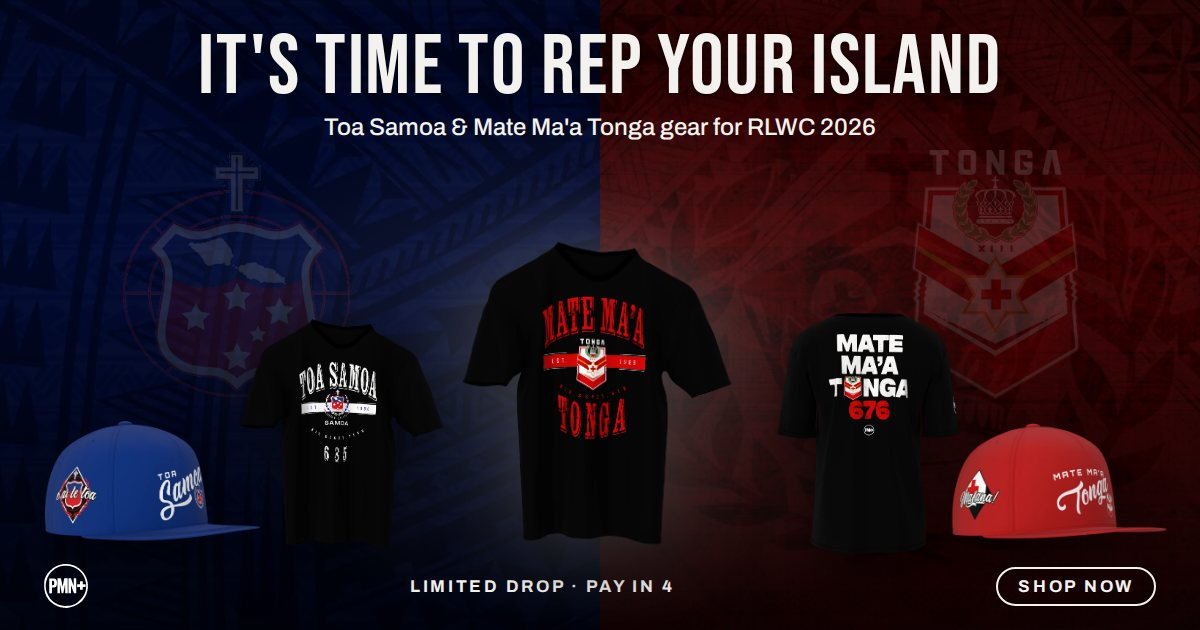
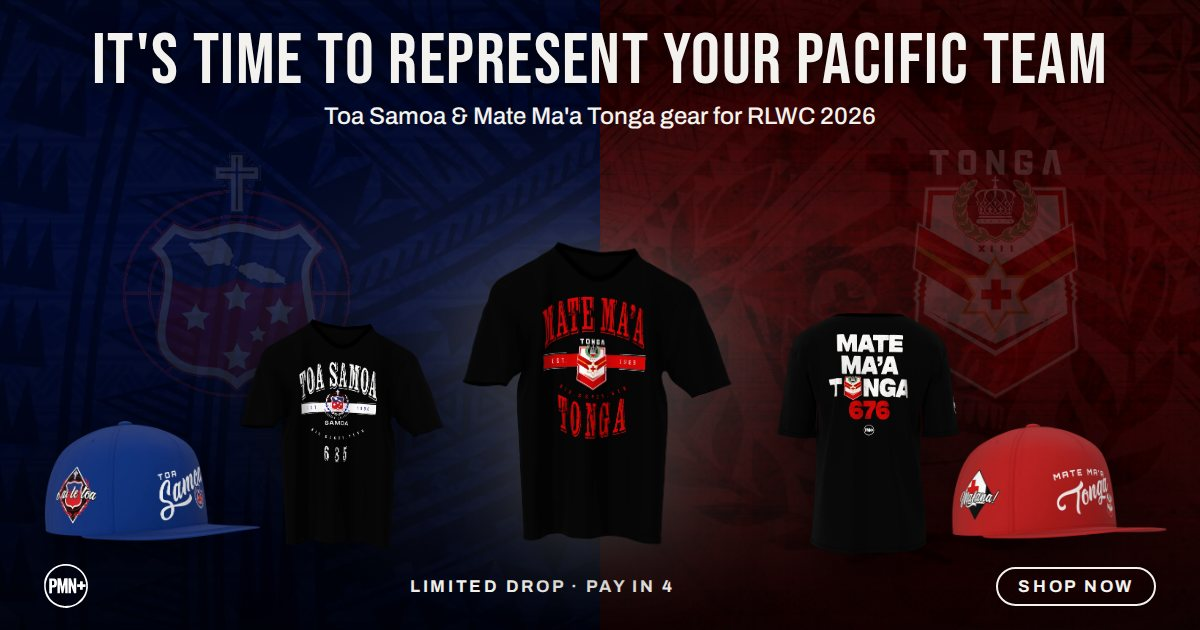
Site title, SEO, OG previews, Pacific team headline

Changed region(s): [[0.0617, 0.0302, 0.925, 0.2413]]

diff --git a/shop/index.html b/shop/index.html
@@ -12,25 +12,25 @@
 <link rel="preconnect" href="https://fonts.googleapis.com">
 <link rel="preconnect" href="https://fonts.gstatic.com" crossorigin>
 <link rel="stylesheet" href="https://fonts.googleapis.com/css2?family=Bebas+Neue&family=Archivo:wght@400;500;600;700&display=swap">
-<meta name="description" content="It&#39;s time to rep your island. Toa Samoa and Mate Ma&#39;a Tonga tees, snapbacks and truckers for RLWC 2026, plus PMN+ core pieces. Pay in 4 with Afterpay.">
+<meta name="description" content="It&#39;s time to represent your Pacific team. Toa Samoa and Mate Ma&#39;a Tonga tees, snapbacks and truckers for RLWC 2026, plus PMN+ core pieces. Pay in 4 with Afterpay.">
 <link rel="canonical" href="https://www.polynesianmusicnetwork.com/shop">
 <meta property="og:site_name" content="PMN+">
 <meta property="og:locale" content="en_US">
 <meta property="og:type" content="website">
 <meta property="og:title" content="Shop PMN+ | RLWC 2026 Toa Samoa &amp; Mate Ma'a Tonga Merch">
-<meta property="og:description" content="It's time to rep your island. Toa Samoa and Mate Ma'a Tonga tees, snapbacks and truckers for RLWC 2026, plus PMN+ core pieces. Pay in 4 with Afterpay.">
+<meta property="og:description" content="It's time to represent your Pacific team. Toa Samoa and Mate Ma'a Tonga tees, snapbacks and truckers for RLWC 2026, plus PMN+ core pieces. Pay in 4 with Afterpay.">
 <meta property="og:url" content="https://www.polynesianmusicnetwork.com/shop">
 <meta property="og:image" content="https://www.polynesianmusicnetwork.com/shop/pmn-plus-shop-og-rlwc-2026-toa-samoa-mate-maa-tonga.jpg">
 <meta property="og:image:secure_url" content="https://www.polynesianmusicnetwork.com/shop/pmn-plus-shop-og-rlwc-2026-toa-samoa-mate-maa-tonga.jpg">
 <meta property="og:image:type" content="image/jpeg">
 <meta property="og:image:width" content="1200">
 <meta property="og:image:height" content="630">
-<meta property="og:image:alt" content="Toa Samoa and Mate Ma'a Tonga tees and snapbacks on blue and red pattern backgrounds: It's time to rep your island">
+<meta property="og:image:alt" content="Toa Samoa and Mate Ma'a Tonga tees and snapbacks on blue and red pattern backgrounds: It's time to represent your Pacific team">
 <meta name="twitter:card" content="summary_large_image">
 <meta name="twitter:title" content="Shop PMN+ | RLWC 2026 Toa Samoa &amp; Mate Ma'a Tonga Merch">
-<meta name="twitter:description" content="It's time to rep your island. Toa Samoa and Mate Ma'a Tonga tees, snapbacks and truckers for RLWC 2026, plus PMN+ core pieces. Pay in 4 with Afterpay.">
+<meta name="twitter:description" content="It's time to represent your Pacific team. Toa Samoa and Mate Ma'a Tonga tees, snapbacks and truckers for RLWC 2026, plus PMN+ core pieces. Pay in 4 with Afterpay.">
 <meta name="twitter:image" content="https://www.polynesianmusicnetwork.com/shop/pmn-plus-shop-og-rlwc-2026-toa-samoa-mate-maa-tonga.jpg">
-<meta name="twitter:image:alt" content="Toa Samoa and Mate Ma'a Tonga tees and snapbacks on blue and red pattern backgrounds: It's time to rep your island">
+<meta name="twitter:image:alt" content="Toa Samoa and Mate Ma'a Tonga tees and snapbacks on blue and red pattern backgrounds: It's time to represent your Pacific team">
 
 <script type="application/ld+json">{"@context":"https://schema.org","@graph":[{"@type":"Organization","@id":"https://polynesianmusicnetwork.com/#org","name":"PMN+","alternateName":"Polynesian Music Network Plus","url":"https://polynesianmusicnetwork.com","logo":"https://polynesianmusicnetwork.com/brand/pmn-plus-logo-black.png","legalName":"Polynesian Music"},{"@type":"Product","@id":"https://polynesianmusicnetwork.com/shop/mate-maa-tonga-crest-oversized-tee-black#product","name":"Mate Ma'a Tonga Crest Oversized Tee – Black","sku":"mate-maa-tonga-crest-oversized-tee-black","brand":{"@type":"Brand","name":"PMN+"},"color":"Black","category":"Apparel & Accessories > Clothing > Shirts & Tops","image":["https://polynesianmusicnetwork.com/hires/mmt-oversized/mate-maa-tonga-crest-oversized-tee-black-front.webp","https://polynesianmusicnetwork.com/hires/mmt-oversized/mate-maa-tonga-crest-oversized-tee-black-back.webp"],"description":"A heavyweight oversized tee for Mate Ma'a Tonga fans. The front carries the Mate Ma'a Tonga Est. 1986 crest print in red and white; a PMN+ tapa band runs across the upper back. Cut from 7.5 oz 100% USA cotton with a relaxed body and dropped shoulder, it holds its shape wash after wash. Made for Rugby League World Cup 2026 and every Tonga game after it.","url":"https://polynesianmusicnetwork.com/shop/mate-maa-tonga-crest-oversized-tee-black","audience":{"@type":"PeopleAudience","suggestedGender":"unisex"},"offers":{"@type":"Offer","url":"https://polynesianmusicnetwork.com/shop/mate-maa-tonga-crest-oversized-tee-black","price":"55.00","priceCurrency":"USD","availability":"https://schema.org/InStock","itemCondition":"https://schema.org/NewCondition","seller":{"@id":"https://polynesianmusicnetwork.com/#org"},"hasMerchantReturnPolicy":{"@type":"MerchantReturnPolicy","applicableCountry":"US","returnPolicyCategory":"https://schema.org/MerchantReturnFiniteReturnWindow","merchantReturnDays":30,"returnMethod":"https://schema.org/ReturnByMail","returnFees":"https://schema.org/ReturnFeesCustomerResponsibility"}}},{"@type":"Product","@id":"https://polynesianmusicnetwork.com/shop/toa-samoa-crest-oversized-tee-black#product","name":"Toa Samoa Crest Oversized Tee – Black","sku":"toa-samoa-crest-oversized-tee-black","brand":{"@type":"Brand","name":"PMN+"},"color":"Black","category":"Apparel & Accessories > Clothing > Shirts & Tops","image":["https://polynesianmusicnetwork.com/hires/toa-oversized/toa-samoa-crest-oversized-tee-black-front.webp","https://polynesianmusicnetwork.com/hires/toa-oversized/toa-samoa-crest-oversized-tee-black-back.webp"],"description":"A heavyweight oversized tee for Toa Samoa fans. The front carries the Toa Samoa Est. 1986 crest print; a PMN+ tapa band runs across the upper back. Cut from 7.5 oz 100% USA cotton with a relaxed body and dropped shoulder. Built for Rugby League World Cup 2026 and every Samoa game after it.","url":"https://polynesianmusicnetwork.com/shop/toa-samoa-crest-oversized-tee-black","audience":{"@type":"PeopleAudience","suggestedGender":"unisex"},"offers":{"@type":"Offer","url":"https://polynesianmusicnetwork.com/shop/toa-samoa-crest-oversized-tee-black","price":"55.00","priceCurrency":"USD","availability":"https://schema.org/InStock","itemCondition":"https://schema.org/NewCondition","seller":{"@id":"https://polynesianmusicnetwork.com/#org"},"hasMerchantReturnPolicy":{"@type":"MerchantReturnPolicy","applicableCountry":"US","returnPolicyCategory":"https://schema.org/MerchantReturnFiniteReturnWindow","merchantReturnDays":30,"returnMethod":"https://schema.org/ReturnByMail","returnFees":"https://schema.org/ReturnFeesCustomerResponsibility"}}},{"@type":"Product","@id":"https://polynesianmusicnetwork.com/shop/mate-maa-tonga-676-tee-black#product","name":"Mate Ma'a Tonga 676 Tee – Black","sku":"mate-maa-tonga-676-tee-black","brand":{"@type":"Brand","name":"PMN+"},"color":"Black","category":"Apparel & Accessories > Clothing > Shirts & Tops","image":["https://polynesianmusicnetwork.com/hires/mmt-676-black/mate-maa-tonga-676-tee-black-back.webp","https://polynesianmusicnetwork.com/hires/mmt-676-black/mate-maa-tonga-676-tee-black-front.webp","https://polynesianmusicnetwork.com/hires/mmt-676-black/mate-maa-tonga-676-tee-black-right.webp"],"description":"The 676 tee in black. A large MATE MA'A TONGA 676 print fills the back in red and white, with a Six·Seven·Six badge on the chest and a PMN+ badge on the sleeve. 676 is Tonga's international calling code, worn here as a mark of home. Printed on a 5.3 oz 100% cotton midweight tee with a regular fit, from S to 5XL at one price.","url":"https://polynesianmusicnetwork.com/shop/mate-maa-tonga-676-tee-black","audience":{"@type":"PeopleAudience","suggestedGender":"unisex"},"offers":{"@type":"Offer","url":"https://polynesianmusicnetwork.com/shop/mate-maa-tonga-676-tee-black","price":"45.00","priceCurrency":"USD","availability":"https://schema.org/InStock","itemCondition":"https://schema.org/NewCondition","seller":{"@id":"https://polynesianmusicnetwork.com/#org"},"hasMerchantReturnPolicy":{"@type":"MerchantReturnPolicy","applicableCountry":"US","returnPolicyCategory":"https://schema.org/MerchantReturnFiniteReturnWindow","merchantReturnDays":30,"returnMethod":"https://schema.org/ReturnByMail","returnFees":"https://schema.org/ReturnFeesCustomerResponsibility"}},"isVariantOf":{"@type":"ProductGroup","productGroupID":"mate-maa-tonga-676-tee","variesBy":["https://schema.org/color","https://schema.org/size"]}},{"@type":"Product","@id":"https://polynesianmusicnetwork.com/shop/toa-samoa-685-tee-black#product","name":"Toa Samoa 685 Tee – Black","sku":"toa-samoa-685-tee-black","brand":{"@type":"Brand","name":"PMN+"},"color":"Black","category":"Apparel & Accessories > Clothing > Shirts & Tops","image":["https://polynesianmusicnetwork.com/hires/toa-685-black/toa-samoa-685-tee-black-front-left.webp","https://polynesianmusicnetwork.com/hires/toa-685-black/toa-samoa-685-tee-black-front.webp","https://polynesianmusicnetwork.com/hires/toa-685-black/toa-samoa-685-tee-black-right.webp","https://polynesianmusicnetwork.com/hires/toa-685-black/toa-samoa-685-tee-black-back.webp"],"description":"The 685 tee in black. A large TOA SAMOA 685 print fills the back, with a Six·Eight·Five badge on the chest and a PMN+ badge on the sleeve. 685 is Samoa's international calling code, worn as a mark of home. Printed on a 5.3 oz 100% cotton midweight tee with a regular fit, from S to 5XL at one price.","url":"https://polynesianmusicnetwork.com/shop/toa-samoa-685-tee-black","audience":{"@type":"PeopleAudience","suggestedGender":"unisex"},"offers":{"@type":"Offer","url":"https://polynesianmusicnetwork.com/shop/toa-samoa-685-tee-black","price":"45.00","priceCurrency":"USD","availability":"https://schema.org/InStock","itemCondition":"https://schema.org/NewCondition","seller":{"@id":"https://polynesianmusicnetwork.com/#org"},"hasMerchantReturnPolicy":{"@type":"MerchantReturnPolicy","applicableCountry":"US","returnPolicyCategory":"https://schema.org/MerchantReturnFiniteReturnWindow","merchantReturnDays":30,"returnMethod":"https://schema.org/ReturnByMail","returnFees":"https://schema.org/ReturnFeesCustomerResponsibility"}},"isVariantOf":{"@type":"ProductGroup","productGroupID":"toa-samoa-685-tee","variesBy":["https://schema.org/color","https://schema.org/size"]}},{"@type":"Product","@id":"https://polynesianmusicnetwork.com/shop/mate-maa-tonga-curved-bill-snapback-red#product","name":"Mate Ma'a Tonga Curved Bill Snapback – Red","sku":"mate-maa-tonga-curved-bill-snapback-red","brand":{"@type":"Brand","name":"PMN+"},"color":"Red","category":"Apparel & Accessories > Clothing Accessories > Hats","image":["https://polynesianmusicnetwork.com/hires/mmt-snapback/mate-maa-tonga-curved-bill-snapback-red-left.webp","https://polynesianmusicnetwork.com/hires/mmt-snapback/mate-maa-tonga-curved-bill-snapback-red-front-left.webp","https://polynesianmusicnetwork.com/hires/mmt-snapback/mate-maa-tonga-curved-bill-snapback-red-front.webp","https://polynesianmusicnetwork.com/hires/mmt-snapback/mate-maa-tonga-curved-bill-snapback-red-front-right.webp","https://polynesianmusicnetwork.com/hires/mmt-snapback/mate-maa-tonga-curved-bill-snapback-red-right.webp","https://polynesianmusicnetwork.com/hires/mmt-snapback/mate-maa-tonga-curved-bill-snapback-red-back.webp"],"description":"A red curved-bill snapback with Mate Ma'a Tonga script and crest across the front, a Mafana! patch on the left side, PMN+ and the Tonga flag on the right, and Tonga script on the back. Embroidered on all four sides, with a structured crown, curved bill and an adjustable snap closure that fits most heads.","url":"https://polynesianmusicnetwork.com/shop/mate-maa-tonga-curved-bill-snapback-red","audience":{"@type":"PeopleAudience","suggestedGender":"unisex"},"offers":{"@type":"Offer","url":"https://polynesianmusicnetwork.com/shop/mate-maa-tonga-curved-bill-snapback-red","price":"55.00","priceCurrency":"USD","availability":"https://schema.org/InStock","itemCondition":"https://schema.org/NewCondition","seller":{"@id":"https://polynesianmusicnetwork.com/#org"},"hasMerchantReturnPolicy":{"@type":"MerchantReturnPolicy","applicableCountry":"US","returnPolicyCategory":"https://schema.org/MerchantReturnFiniteReturnWindow","merchantReturnDays":30,"returnMethod":"https://schema.org/ReturnByMail","returnFees":"https://schema.org/ReturnFeesCustomerResponsibility"}}},{"@type":"Product","@id":"https://polynesianmusicnetwork.com/shop/toa-samoa-curved-bill-snapback-royal-blue#product","name":"Toa Samoa Curved Bill Snapback – Royal Blue","sku":"toa-samoa-curved-bill-snapback-royal-blue","brand":{"@type":"Brand","name":"PMN+"},"color":"Royal Blue","category":"Apparel & Accessories > Clothing Accessories > Hats","image":["https://polynesianmusicnetwork.com/hires/toa-snapback/toa-samoa-curved-bill-snapback-royal-blue-left.webp","https://polynesianmusicnetwork.com/hires/toa-snapback/toa-samoa-curved-bill-snapback-royal-blue-front-left.webp","https://polynesianmusicnetwork.com/hires/toa-snapback/toa-samoa-curved-bill-snapback-royal-blue-front.webp","https://polynesianmusicnetwork.com/hires/toa-snapback/toa-samoa-curved-bill-snapback-royal-blue-front-right.webp","https://polynesianmusicnetwork.com/hires/toa-snapback/toa-samoa-curved-bill-snapback-royal-blue-back.webp"],"description":"A royal blue curved-bill snapback with Toa Samoa script and crest across the front, an O ai le toa patch on the left side, PMN+ and the Samoa flag on the right, and Samoa script on the back. Embroidered on all four sides, with a structured crown, curved bill and an adjustable snap closure that fits most heads.","url":"https://polynesianmusicnetwork.com/shop/toa-samoa-curved-bill-snapback-royal-blue","audience":{"@type":"PeopleAudience","suggestedGender":"unisex"},"offers":{"@type":"Offer","url":"https://polynesianmusicnetwork.com/shop/toa-samoa-curved-bill-snapback-royal-blue","price":"55.00","priceCurrency":"USD","availability":"https://schema.org/InStock","itemCondition":"https://schema.org/NewCondition","seller":{"@id":"https://polynesianmusicnetwork.com/#org"},"hasMerchantReturnPolicy":{"@type":"MerchantReturnPolicy","applicableCountry":"US","returnPolicyCategory":"https://schema.org/MerchantReturnFiniteReturnWindow","merchantReturnDays":30,"returnMethod":"https://schema.org/ReturnByMail","returnFees":"https://schema.org/ReturnFeesCustomerResponsibility"}}},{"@type":"Product","@id":"https://polynesianmusicnetwork.com/shop/mate-maa-tonga-high-profile-snapback-white-crimson#product","name":"Mate Ma'a Tonga High Profile Snapback – White/Crimson","sku":"mate-maa-tonga-high-profile-snapback-white-crimson","brand":{"@type":"Brand","name":"PMN+"},"color":"White/Crimson","category":"Apparel & Accessories > Clothing Accessories > Hats","image":["https://polynesianmusicnetwork.com/hires/mmt-hp-snapback/mate-maa-tonga-high-profile-snapback-white-crimson-front-left.webp","https://polynesianmusicnetwork.com/hires/mmt-hp-snapback/mate-maa-tonga-high-profile-snapback-white-crimson-front.webp","https://polynesianmusicnetwork.com/hires/mmt-hp-snapback/mate-maa-tonga-high-profile-snapback-white-crimson-front-right.webp","https://polynesianmusicnetwork.com/hires/mmt-hp-snapback/mate-maa-tonga-high-profile-snapback-white-crimson-right.webp"],"description":"A two-tone high-profile snapback with a white crown and crimson brim. The front reads Est. 1986 Mate Ma'a Tonga with the crest; the left side carries a Pasifika Polynesian Music patch, the right side PMN+ and the Tonga flag. Embroidered on all four sides, with a high-profile structured crown, flat brim and an adjustable snap closure.","url":"https://polynesianmusicnetwork.com/shop/mate-maa-tonga-high-profile-snapback-white-crimson","audience":{"@type":"PeopleAudience","suggestedGender":"unisex"},"offers":{"@type":"Offer","url":"https://polynesianmusicnetwork.com/shop/mate-maa-tonga-high-profile-snapback-white-crimson","price":"55.00","priceCurrency":"USD","availability":"https://schema.org/InStock","itemCondition":"https://schema.org/NewCondition","seller":{"@id":"https://polynesianmusicnetwork.com/#org"},"hasMerchantReturnPolicy":{"@type":"MerchantReturnPolicy","applicableCountry":"US","returnPolicyCategory":"https://schema.org/MerchantReturnFiniteReturnWindow","merchantReturnDays":30,"returnMethod":"https://schema.org/ReturnByMail","returnFees":"https://schema.org/ReturnFeesCustomerResponsibility"}}},{"@type":"Product","@id":"https://polynesianmusicnetwork.com/shop/toa-samoa-high-profile-snapback-navy-white#product","name":"Toa Samoa High Profile Snapback – Navy/White","sku":"toa-samoa-high-profile-snapback-navy-white","brand":{"@type":"Brand","name":"PMN+"},"color":"Navy/White","category":"Apparel & Accessories > Clothing Accessories > Hats","image":["https://polynesianmusicnetwork.com/hires/toa-hp-snapback/toa-samoa-high-profile-snapback-navy-white-left.webp","https://polynesianmusicnetwork.com/hires/toa-hp-snapback/toa-samoa-high-profile-snapback-navy-white-front-left.webp","https://polynesianmusicnetwork.com/hires/toa-hp-snapback/toa-samoa-high-profile-snapback-navy-white-front.webp","https://polynesianmusicnetwork.com/hires/toa-hp-snapback/toa-samoa-high-profile-snapback-navy-white-front-right.webp","https://polynesianmusicnetwork.com/hires/toa-hp-snapback/toa-samoa-high-profile-snapback-navy-white-right.webp"],"description":"A two-tone high-profile snapback with a white crown and navy brim. The front reads Est. 1986 Toa Samoa with the crest; the left side carries a Pasifika Polynesian Music patch, the right side PMN+ and the Samoa flag. Embroidered on all four sides, with a high-profile structured crown, flat brim and an adjustable snap closure.","url":"https://polynesianmusicnetwork.com/shop/toa-samoa-high-profile-snapback-navy-white","audience":{"@type":"PeopleAudience","suggestedGender":"unisex"},"offers":{"@type":"Offer","url":"https://polynesianmusicnetwork.com/shop/toa-samoa-high-profile-snapback-navy-white","price":"55.00","priceCurrency":"USD","availability":"https://schema.org/InStock","itemCondition":"https://schema.org/NewCondition","seller":{"@id":"https://polynesianmusicnetwork.com/#org"},"hasMerchantReturnPolicy":{"@type":"MerchantReturnPolicy","applicableCountry":"US","returnPolicyCategory":"https://schema.org/MerchantReturnFiniteReturnWindow","merchantReturnDays":30,"returnMethod":"https://schema.org/ReturnByMail","returnFees":"https://schema.org/ReturnFeesCustomerResponsibility"}}},{"@type":"Product","@id":"https://polynesianmusicnetwork.com/shop/mate-maa-tonga-676-tee-red#product","name":"Mate Ma'a Tonga 676 Tee – Red","sku":"mate-maa-tonga-676-tee-red","brand":{"@type":"Brand","name":"PMN+"},"color":"Red","category":"Apparel & Accessories > Clothing > Shirts & Tops","image":["https://polynesianmusicnetwork.com/hires/mmt-676-tee/mate-maa-tonga-676-tee-red-front-left.webp","https://polynesianmusicnetwork.com/hires/mmt-676-tee/mate-maa-tonga-676-tee-red-front.webp","https://polynesianmusicnetwork.com/hires/mmt-676-tee/mate-maa-tonga-676-tee-red-right.webp","https://polynesianmusicnetwork.com/hires/mmt-676-tee/mate-maa-tonga-676-tee-red-back.webp"],"description":"The 676 tee in Tonga red. A large MATE MA'A TONGA 676 print fills the back, with a Six·Seven·Six badge on the chest and a PMN+ badge on the sleeve. 676 is Tonga's international calling code, worn as a mark of home. Printed on a 5.3 oz 100% cotton midweight tee with a regular fit, S to 5XL.","url":"https://polynesianmusicnetwork.com/shop/mate-maa-tonga-676-tee-red","audience":{"@type":"PeopleAudience","suggestedGender":"unisex"},"offers":{"@type":"Offer","url":"https://polynesianmusicnetwork.com/shop/mate-maa-tonga-676-tee-red","price":"45.00","priceCurrency":"USD","availability":"https://schema.org/InStock","itemCondition":"https://schema.org/NewCondition","seller":{"@id":"https://polynesianmusicnetwork.com/#org"},"hasMerchantReturnPolicy":{"@type":"MerchantReturnPolicy","applicableCountry":"US","returnPolicyCategory":"https://schema.org/MerchantReturnFiniteReturnWindow","merchantReturnDays":30,"returnMethod":"https://schema.org/ReturnByMail","returnFees":"https://schema.org/ReturnFeesCustomerResponsibility"}},"isVariantOf":{"@type":"ProductGroup","productGroupID":"mate-maa-tonga-676-tee","variesBy":["https://schema.org/color","https://schema.org/size"]}},{"@type":"Product","@id":"https://polynesianmusicnetwork.com/shop/toa-samoa-685-tee-royal-blue#product","name":"Toa Samoa 685 Tee – Royal Blue","sku":"toa-samoa-685-tee-royal-blue","brand":{"@type":"Brand","name":"PMN+"},"color":"Royal Blue","category":"Apparel & Accessories > Clothing > Shirts & Tops","image":["https://polynesianmusicnetwork.com/hires/toa-685-tee/toa-samoa-685-tee-royal-blue-front-left.webp","https://polynesianmusicnetwork.com/hires/toa-685-tee/toa-samoa-685-tee-royal-blue-front.webp","https://polynesianmusicnetwork.com/hires/toa-685-tee/toa-samoa-685-tee-royal-blue-right.webp","https://polynesianmusicnetwork.com/hires/toa-685-tee/toa-samoa-685-tee-royal-blue-back.webp"],"description":"The 685 tee in royal blue. A large TOA SAMOA 685 print in white fills the back, with a Six·Eight·Five badge on the chest and a PMN+ badge on the sleeve. 685 is Samoa's international calling code, worn as a mark of home. Printed on a 5.3 oz 100% cotton midweight tee with a regular fit, S to 5XL.","url":"https://polynesianmusicnetwork.com/shop/toa-samoa-685-tee-royal-blue","audience":{"@type":"PeopleAudience","suggestedGender":"unisex"},"offers":{"@type":"Offer","url":"https://polynesianmusicnetwork.com/shop/toa-samoa-685-tee-royal-blue","price":"45.00","priceCurrency":"USD","availability":"https://schema.org/InStock","itemCondition":"https://schema.org/NewCondition","seller":{"@id":"https://polynesianmusicnetwork.com/#org"},"hasMerchantReturnPolicy":{"@type":"MerchantReturnPolicy","applicableCountry":"US","returnPolicyCategory":"https://schema.org/MerchantReturnFiniteReturnWindow","merchantReturnDays":30,"returnMethod":"https://schema.org/ReturnByMail","returnFees":"https://schema.org/ReturnFeesCustomerResponsibility"}},"isVariantOf":{"@type":"ProductGroup","productGroupID":"toa-samoa-685-tee","variesBy":["https://schema.org/color","https://schema.org/size"]}},{"@type":"Product","@id":"https://polynesianmusicnetwork.com/shop/mate-maa-tonga-silver-blackout-tee-black#product","name":"Mate Ma'a Tonga Silver Blackout Tee – Black/Silver","sku":"mate-maa-tonga-silver-blackout-tee-black","brand":{"@type":"Brand","name":"PMN+"},"color":"Black/Silver","category":"Apparel & Accessories > Clothing > Shirts & Tops","image":["https://polynesianmusicnetwork.com/hires/mmt-silver-blackout/mate-maa-tonga-silver-blackout-tee-black-front-left.webp","https://polynesianmusicnetwork.com/hires/mmt-silver-blackout/mate-maa-tonga-silver-blackout-tee-black-front.webp","https://polynesianmusicnetwork.com/hires/mmt-silver-blackout/mate-maa-tonga-silver-blackout-tee-black-right.webp","https://polynesianmusicnetwork.com/hires/mmt-silver-blackout/mate-maa-tonga-silver-blackout-tee-black-back.webp"],"description":"A tonal blackout tee for Mate Ma'a Tonga: grey prints on black for a quieter way to rep Tonga. A vertical 676 runs down the back with the PMN+ mark. Printed on a 5.3 oz 100% cotton midweight tee with a regular fit, S to 5XL.","url":"https://polynesianmusicnetwork.com/shop/mate-maa-tonga-silver-blackout-tee-black","audience":{"@type":"PeopleAudience","suggestedGender":"unisex"},"offers":{"@type":"Offer","url":"https://polynesianmusicnetwork.com/shop/mate-maa-tonga-silver-blackout-tee-black","price":"45.00","priceCurrency":"USD","availability":"https://schema.org/InStock","itemCondition":"https://schema.org/NewCondition","seller":{"@id":"https://polynesianmusicnetwork.com/#org"},"hasMerchantReturnPolicy":{"@type":"MerchantReturnPolicy","applicableCountry":"US","returnPolicyCategory":"https://schema.org/MerchantReturnFiniteReturnWindow","merchantReturnDays":30,"returnMethod":"https://schema.org/ReturnByMail","returnFees":"https://schema.org/ReturnFeesCustomerResponsibility"}}},{"@type":"Product","@id":"https://polynesianmusicnetwork.com/shop/toa-samoa-silver-blackout-tee-black#product","name":"Toa Samoa Silver Blackout Tee – Black/Silver","sku":"toa-samoa-silver-blackout-tee-black","brand":{"@type":"Brand","name":"PMN+"},"color":"Black/Silver","category":"Apparel & Accessories > Clothing > Shirts & Tops","image":["https://polynesianmusicnetwork.com/hires/toa-silver-blackout/toa-samoa-silver-blackout-tee-black-back.webp","https://polynesianmusicnetwork.com/hires/toa-silver-blackout/toa-samoa-silver-blackout-tee-black-front.webp","https://polynesianmusicnetwork.com/hires/toa-silver-blackout/toa-samoa-silver-blackout-tee-black-right.webp"],"description":"A tonal blackout tee for Toa Samoa: O Ai Le Toa Samoa across the chest in grey with the flag and crest, and a vertical 685 down the back with the PMN+ mark. Printed on a 5.3 oz 100% cotton midweight tee with a regular fit, S to 5XL.","url":"https://polynesianmusicnetwork.com/shop/toa-samoa-silver-blackout-tee-black","audience":{"@type":"PeopleAudience","suggestedGender":"unisex"},"offers":{"@type":"Offer","url":"https://polynesianmusicnetwork.com/shop/toa-samoa-silver-blackout-tee-black","price":"45.00","priceCurrency":"USD","availability":"https://schema.org/InStock","itemCondition":"https://schema.org/NewCondition","seller":{"@id":"https://polynesianmusicnetwork.com/#org"},"hasMerchantReturnPolicy":{"@type":"MerchantReturnPolicy","applicableCountry":"US","returnPolicyCategory":"https://schema.org/MerchantReturnFiniteReturnWindow","merchantReturnDays":30,"returnMethod":"https://schema.org/ReturnByMail","returnFees":"https://schema.org/ReturnFeesCustomerResponsibility"}}},{"@type":"Product","@id":"https://polynesianmusicnetwork.com/shop/mate-maa-tonga-trucker-snapback-black#product","name":"Mate Ma'a Tonga Trucker Snapback – Black","sku":"mate-maa-tonga-trucker-snapback-black","brand":{"@type":"Brand","name":"PMN+"},"color":"Black","category":"Apparel & Accessories > Clothing Accessories > Hats","image":["https://polynesianmusicnetwork.com/hires/mmt-trucker/mate-maa-tonga-trucker-snapback-black-front-left.webp","https://polynesianmusicnetwork.com/hires/mmt-trucker/mate-maa-tonga-trucker-snapback-black-front.webp","https://polynesianmusicnetwork.com/hires/mmt-trucker/mate-maa-tonga-trucker-snapback-black-front-right.webp"],"description":"A black mesh-back trucker with an arched Mate Ma'a Tonga 2026 print and the crest on the front panel. Curved bill, breathable mesh side and back panels and an adjustable snap closure. One size fits most.","url":"https://polynesianmusicnetwork.com/shop/mate-maa-tonga-trucker-snapback-black","audience":{"@type":"PeopleAudience","suggestedGender":"unisex"},"offers":{"@type":"Offer","url":"https://polynesianmusicnetwork.com/shop/mate-maa-tonga-trucker-snapback-black","price":"35.00","priceCurrency":"USD","availability":"https://schema.org/InStock","itemCondition":"https://schema.org/NewCondition","seller":{"@id":"https://polynesianmusicnetwork.com/#org"},"hasMerchantReturnPolicy":{"@type":"MerchantReturnPolicy","applicableCountry":"US","returnPolicyCategory":"https://schema.org/MerchantReturnFiniteReturnWindow","merchantReturnDays":30,"returnMethod":"https://schema.org/ReturnByMail","returnFees":"https://schema.org/ReturnFeesCustomerResponsibility"}}},{"@type":"Product","@id":"https://polynesianmusicnetwork.com/shop/toa-samoa-trucker-snapback-black#product","name":"Toa Samoa Trucker Snapback – Black","sku":"toa-samoa-trucker-snapback-black","brand":{"@type":"Brand","name":"PMN+"},"color":"Black","category":"Apparel & Accessories > Clothing Accessories > Hats","image":["https://polynesianmusicnetwork.com/hires/toa-trucker/toa-samoa-trucker-snapback-black-front.webp","https://polynesianmusicnetwork.com/hires/toa-trucker/toa-samoa-trucker-snapback-black-front-right.webp"],"description":"A black mesh-back trucker with an arched Toa Samoa 2026 print and the crest on the front panel. Curved bill, breathable mesh side and back panels and an adjustable snap closure. One size fits most.","url":"https://polynesianmusicnetwork.com/shop/toa-samoa-trucker-snapback-black","audience":{"@type":"PeopleAudience","suggestedGender":"unisex"},"offers":{"@type":"Offer","url":"https://polynesianmusicnetwork.com/shop/toa-samoa-trucker-snapback-black","price":"35.00","priceCurrency":"USD","availability":"https://schema.org/InStock","itemCondition":"https://schema.org/NewCondition","seller":{"@id":"https://polynesianmusicnetwork.com/#org"},"hasMerchantReturnPolicy":{"@type":"MerchantReturnPolicy","applicableCountry":"US","returnPolicyCategory":"https://schema.org/MerchantReturnFiniteReturnWindow","merchantReturnDays":30,"returnMethod":"https://schema.org/ReturnByMail","returnFees":"https://schema.org/ReturnFeesCustomerResponsibility"}}},{"@type":"Product","@id":"https://polynesianmusicnetwork.com/shop/pmn-plus-logo-tee-black#product","name":"PMN+ Logo Tee – Black","sku":"pmn-plus-logo-tee-black","brand":{"@type":"Brand","name":"PMN+"},"color":"Black","category":"Apparel & Accessories > Clothing > Shirts & Tops","image":["https://polynesianmusicnetwork.com/hires/pmn-tee/pmn-plus-logo-tee-black-back.webp","https://polynesianmusicnetwork.com/hires/pmn-tee/pmn-plus-logo-tee-black-front.webp"],"description":"The PMN+ core tee in black, with the PMN+ circle logo on the left chest and a clean back. An everyday tee from the Pasifika media platform. Printed on a 5.3 oz 100% cotton midweight tee with a regular fit, from S to 5XL at one price.","url":"https://polynesianmusicnetwork.com/shop/pmn-plus-logo-tee-black","audience":{"@type":"PeopleAudience","suggestedGender":"unisex"},"offers":{"@type":"Offer","url":"https://polynesianmusicnetwork.com/shop/pmn-plus-logo-tee-black","price":"40.00","priceCurrency":"USD","availability":"https://schema.org/InStock","itemCondition":"https://schema.org/NewCondition","seller":{"@id":"https://polynesianmusicnetwork.com/#org"},"hasMerchantReturnPolicy":{"@type":"MerchantReturnPolicy","applicableCountry":"US","returnPolicyCategory":"https://schema.org/MerchantReturnFiniteReturnWindow","merchantReturnDays":30,"returnMethod":"https://schema.org/ReturnByMail","returnFees":"https://schema.org/ReturnFeesCustomerResponsibility"}}},{"@type":"Product","@id":"https://polynesianmusicnetwork.com/shop/pmn-plus-trucker-hat-black#product","name":"PMN+ Trucker Hat – Black","sku":"pmn-plus-trucker-hat-black","brand":{"@type":"Brand","name":"PMN+"},"color":"Black","category":"Apparel & Accessories > Clothing Accessories > Hats","image":["https://polynesianmusicnetwork.com/hires/pmn-trucker/pmn-plus-trucker-hat-black-front-left.webp","https://polynesianmusicnetwork.com/hires/pmn-trucker/pmn-plus-trucker-hat-black-front.webp","https://polynesianmusicnetwork.com/hires/pmn-trucker/pmn-plus-trucker-hat-black-front-right.webp"],"description":"The PMN+ core trucker in black, with the PMN+ circle logo on the front panel. Curved bill, breathable mesh side and back panels and an adjustable snap closure. One size fits most.","url":"https://polynesianmusicnetwork.com/shop/pmn-plus-trucker-hat-black","audience":{"@type":"PeopleAudience","suggestedGender":"unisex"},"offers":{"@type":"Offer","url":"https://polynesianmusicnetwork.com/shop/pmn-plus-trucker-hat-black","price":"30.00","priceCurrency":"USD","availability":"https://schema.org/InStock","itemCondition":"https://schema.org/NewCondition","seller":{"@id":"https://polynesianmusicnetwork.com/#org"},"hasMerchantReturnPolicy":{"@type":"MerchantReturnPolicy","applicableCountry":"US","returnPolicyCategory":"https://schema.org/MerchantReturnFiniteReturnWindow","merchantReturnDays":30,"returnMethod":"https://schema.org/ReturnByMail","returnFees":"https://schema.org/ReturnFeesCustomerResponsibility"}}},{"@type":"Product","@id":"https://polynesianmusicnetwork.com/shop/pmn-plus-classic-dad-hat-khaki#product","name":"PMN+ Classic Dad Hat – Khaki","sku":"pmn-plus-classic-dad-hat-khaki","brand":{"@type":"Brand","name":"PMN+"},"color":"Khaki","category":"Apparel & Accessories > Clothing Accessories > Hats","image":["https://polynesianmusicnetwork.com/hires/pmn-dad-hat/pmn-plus-classic-dad-hat-khaki-back.webp","https://polynesianmusicnetwork.com/hires/pmn-dad-hat/pmn-plus-classic-dad-hat-khaki-back-left.webp","https://polynesianmusicnetwork.com/hires/pmn-dad-hat/pmn-plus-classic-dad-hat-khaki-left.webp","https://polynesianmusicnetwork.com/hires/pmn-dad-hat/pmn-plus-classic-dad-hat-khaki-front-left.webp","https://polynesianmusicnetwork.com/hires/pmn-dad-hat/pmn-plus-classic-dad-hat-khaki-front.webp","https://polynesianmusicnetwork.com/hires/pmn-dad-hat/pmn-plus-classic-dad-hat-khaki-front-right.webp","https://polynesianmusicnetwork.com/hires/pmn-dad-hat/pmn-plus-classic-dad-hat-khaki-right.webp","https://polynesianmusicnetwork.com/hires/pmn-dad-hat/pmn-plus-classic-dad-hat-khaki-back-right.webp"],"description":"The PMN+ Classic Dad Hat in khaki, with the PMN+ Community · Culture · Connection seal embroidered in white on the front. An exclusive run, available only while stocks last. 100% cotton, unstructured low-profile crown, curved bill and an adjustable strap with a metal buckle. One size fits most.","url":"https://polynesianmusicnetwork.com/shop/pmn-plus-classic-dad-hat-khaki","audience":{"@type":"PeopleAudience","suggestedGender":"unisex"},"offers":{"@type":"Offer","url":"https://polynesianmusicnetwork.com/shop/pmn-plus-classic-dad-hat-khaki","price":"35.00","priceCurrency":"USD","availability":"https://schema.org/InStock","itemCondition":"https://schema.org/NewCondition","seller":{"@id":"https://polynesianmusicnetwork.com/#org"},"hasMerchantReturnPolicy":{"@type":"MerchantReturnPolicy","applicableCountry":"US","returnPolicyCategory":"https://schema.org/MerchantReturnFiniteReturnWindow","merchantReturnDays":30,"returnMethod":"https://schema.org/ReturnByMail","returnFees":"https://schema.org/ReturnFeesCustomerResponsibility"}}},{"@type":"CollectionPage","name":"Mate Ma'a Tonga","url":"https://polynesianmusicnetwork.com/shop/mate-maa-tonga","description":"Shop Mate Ma'a Tonga merch for Rugby League World Cup 2026: 676 tees, oversized crest tees, snapbacks and trucker hats. Ships across the USA. Pay in 4.","mainEntity":{"@type":"ItemList","itemListElement":[{"@type":"ListItem","position":1,"url":"https://polynesianmusicnetwork.com/shop/mate-maa-tonga-crest-oversized-tee-black"},{"@type":"ListItem","position":2,"url":"https://polynesianmusicnetwork.com/shop/mate-maa-tonga-676-tee-black"},{"@type":"ListItem","position":3,"url":"https://polynesianmusicnetwork.com/shop/mate-maa-tonga-curved-bill-snapback-red"},{"@type":"ListItem","position":4,"url":"https://polynesianmusicnetwork.com/shop/mate-maa-tonga-high-profile-snapback-white-crimson"},{"@type":"ListItem","position":5,"url":"https://polynesianmusicnetwork.com/shop/mate-maa-tonga-676-tee-red"},{"@type":"ListItem","position":6,"url":"https://polynesianmusicnetwork.com/shop/mate-maa-tonga-silver-blackout-tee-black"},{"@type":"ListItem","position":7,"url":"https://polynesianmusicnetwork.com/shop/mate-maa-tonga-trucker-snapback-black"}]}},{"@type":"CollectionPage","name":"Toa Samoa","url":"https://polynesianmusicnetwork.com/shop/toa-samoa","description":"Shop Toa Samoa merch for Rugby League World Cup 2026: 685 tees, oversized crest tees, snapbacks and trucker hats. Ships across the USA. Pay in 4.","mainEntity":{"@type":"ItemList","itemListElement":[{"@type":"ListItem","position":1,"url":"https://polynesianmusicnetwork.com/shop/toa-samoa-crest-oversized-tee-black"},{"@type":"ListItem","position":2,"url":"https://polynesianmusicnetwork.com/shop/toa-samoa-685-tee-black"},{"@type":"ListItem","position":3,"url":"https://polynesianmusicnetwork.com/shop/toa-samoa-curved-bill-snapback-royal-blue"},{"@type":"ListItem","position":4,"url":"https://polynesianmusicnetwork.com/shop/toa-samoa-high-profile-snapback-navy-white"},{"@type":"ListItem","position":5,"url":"https://polynesianmusicnetwork.com/shop/toa-samoa-685-tee-royal-blue"},{"@type":"ListItem","position":6,"url":"https://polynesianmusicnetwork.com/shop/toa-samoa-silver-blackout-tee-black"},{"@type":"ListItem","position":7,"url":"https://polynesianmusicnetwork.com/shop/toa-samoa-trucker-snapback-black"}]}},{"@type":"CollectionPage","name":"PMN+","url":"https://polynesianmusicnetwork.com/shop/pmn-plus","description":"Shop PMN+ apparel: PMN+ core tees and truckers plus Mate Ma'a Tonga and Toa Samoa RLWC 2026 gear from the Pasifika media platform. Ships across the USA. Pay in 4.","mainEntity":{"@type":"ItemList","itemListElement":[{"@type":"ListItem","position":1,"url":"https://polynesianmusicnetwork.com/shop/mate-maa-tonga-crest-oversized-tee-black"},{"@type":"ListItem","position":2,"url":"https://polynesianmusicnetwork.com/shop/toa-samoa-crest-oversized-tee-black"},{"@type":"ListItem","position":3,"url":"https://polynesianmusicnetwork.com/shop/mate-maa-tonga-676-tee-black"},{"@type":"ListItem","position":4,"url":"https://polynesianmusicnetwork.com/shop/toa-samoa-685-tee-black"},{"@type":"ListItem","position":5,"url":"https://polynesianmusicnetwork.com/shop/mate-maa-tonga-curved-bill-snapback-red"},{"@type":"ListItem","position":6,"url":"https://polynesianmusicnetwork.com/shop/toa-samoa-curved-bill-snapback-royal-blue"},{"@type":"ListItem","position":7,"url":"https://polynesianmusicnetwork.com/shop/mate-maa-tonga-high-profile-snapback-white-crimson"},{"@type":"ListItem","position":8,"url":"https://polynesianmusicnetwork.com/shop/toa-samoa-high-profile-snapback-navy-white"},{"@type":"ListItem","position":9,"url":"https://polynesianmusicnetwork.com/shop/mate-maa-tonga-676-tee-red"},{"@type":"ListItem","position":10,"url":"https://polynesianmusicnetwork.com/shop/toa-samoa-685-tee-royal-blue"},{"@type":"ListItem","position":11,"url":"https://polynesianmusicnetwork.com/shop/mate-maa-tonga-silver-blackout-tee-black"},{"@type":"ListItem","position":12,"url":"https://polynesianmusicnetwork.com/shop/toa-samoa-silver-blackout-tee-black"},{"@type":"ListItem","position":13,"url":"https://polynesianmusicnetwork.com/shop/mate-maa-tonga-trucker-snapback-black"},{"@type":"ListItem","position":14,"url":"https://polynesianmusicnetwork.com/shop/toa-samoa-trucker-snapback-black"},{"@type":"ListItem","position":15,"url":"https://polynesianmusicnetwork.com/shop/pmn-plus-logo-tee-black"},{"@type":"ListItem","position":16,"url":"https://polynesianmusicnetwork.com/shop/pmn-plus-trucker-hat-black"},{"@type":"ListItem","position":17,"url":"https://polynesianmusicnetwork.com/shop/pmn-plus-classic-dad-hat-khaki"}]}}]}</script>
 <style>
@@ -677,7 +677,7 @@ s.was{color:var(--ink-dim);font-weight:400;margin-left:4px}
       <span class="hdr-r"><nav class="desk-nav" aria-label="Collections"><button type="button" data-coll="toa-samoa">Toa Samoa</button><button type="button" data-coll="mate-maa-tonga">Mate Ma'a Tonga</button></nav><button class="shop-link" id="heroShop" type="button">Shop</button><button class="icon-btn bag" aria-label="Bag"><svg viewBox="0 0 24 24"><path d="M5 8h14l-1 12H6L5 8z"/><path d="M9 8V6a3 3 0 0 1 6 0v2"/></svg><span class="bag-count" hidden></span></button></span>
     </header>
     <div class="hero-cta">
-      <h1 class="hero-h">It's time to rep your island</h1>
+      <h1 class="hero-h">It's time to represent your Pacific team</h1>
       <p class="hero-sub">Get your RLWC gear right here!</p>
       <div class="hero-btns"><button type="button" class="hb hb-s" data-coll="toa-samoa">Shop Toa Samoa</button><button type="button" class="hb hb-t" data-coll="mate-maa-tonga">Shop Mate Ma'a Tonga</button></div>
     </div>
